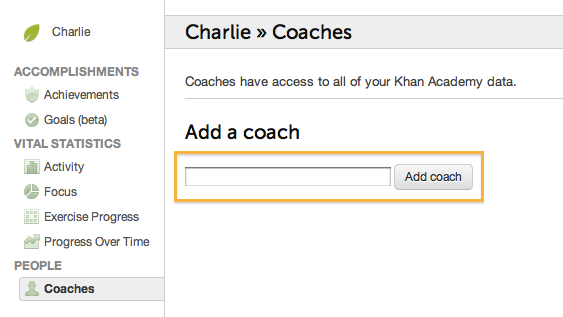
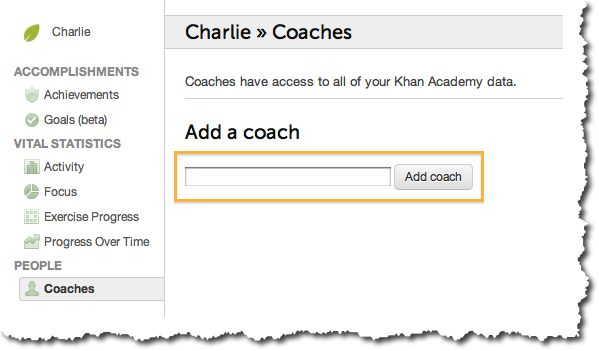
Slight tweaks to coach screenshots -- use cutout to make it clear that screenshots aren't actual UI, same w/ CSS cursor

Changed region(s): [[0.0, 0.0, 1.0, 0.9937], [0.0302, 0.0568, 0.1812, 0.142]]

diff --git a/templates/macros/coach.html b/templates/macros/coach.html
@@ -10,11 +10,11 @@
         <ol>
             <li>
                 <p>First, they should visit <a href="/profile">their profile</a> by clicking on their name at the top of the page.</p>
-                <img src="/images/profile-link-in-header.png" class="vertical-shadow rounded-background" />
+                <img src="/images/profile-link-in-header.png?1" class="vertical-shadow rounded-background" />
             </li>
             <li>
                 <p>Then, they should click on the Coaches tab.</p>
-                <img src="/images/coaches-nav.png" class="vertical-shadow rounded-background"/>
+                <img src="/images/coaches-nav.png?1" class="vertical-shadow rounded-background"/>
             </li>
             <li class="enter-email">
                 <!-- Are you a flying chimpanzee? Are you changing this element or anything inside?
@@ -27,7 +27,7 @@
                     <p>{{ coach_email|escape}}</p>
                 {% endif %}
                 <div class="coach-email">{{ coach_email|escape }}</div>
-                <img src="/images/coaches-tab-in-profile.png" class="vertical-shadow rounded-background"/>
+                <img src="/images/coaches-tab-in-profile.png?1" class="vertical-shadow rounded-background"/>
             </li>
         </ol>
         <p>Once students make you their coach, you'll have access to all types of interesting data about their progress and achievements.</p>

diff --git a/stylesheets/shared-package/default.css b/stylesheets/shared-package/default.css
@@ -3246,8 +3246,9 @@ div.arrow-right-shadow, div.arrow-left-shadow {
     text-align: left;
 }
 #empty-class ol li.enter-email div.coach-email {
-    top: 282px;
-    left: 214px;
+    top: 272px;
+    left: 204px;
+    cursor: default; /* Don't show text cursor, because this isn't editable */
 }
 /* End No students page styles */
 
